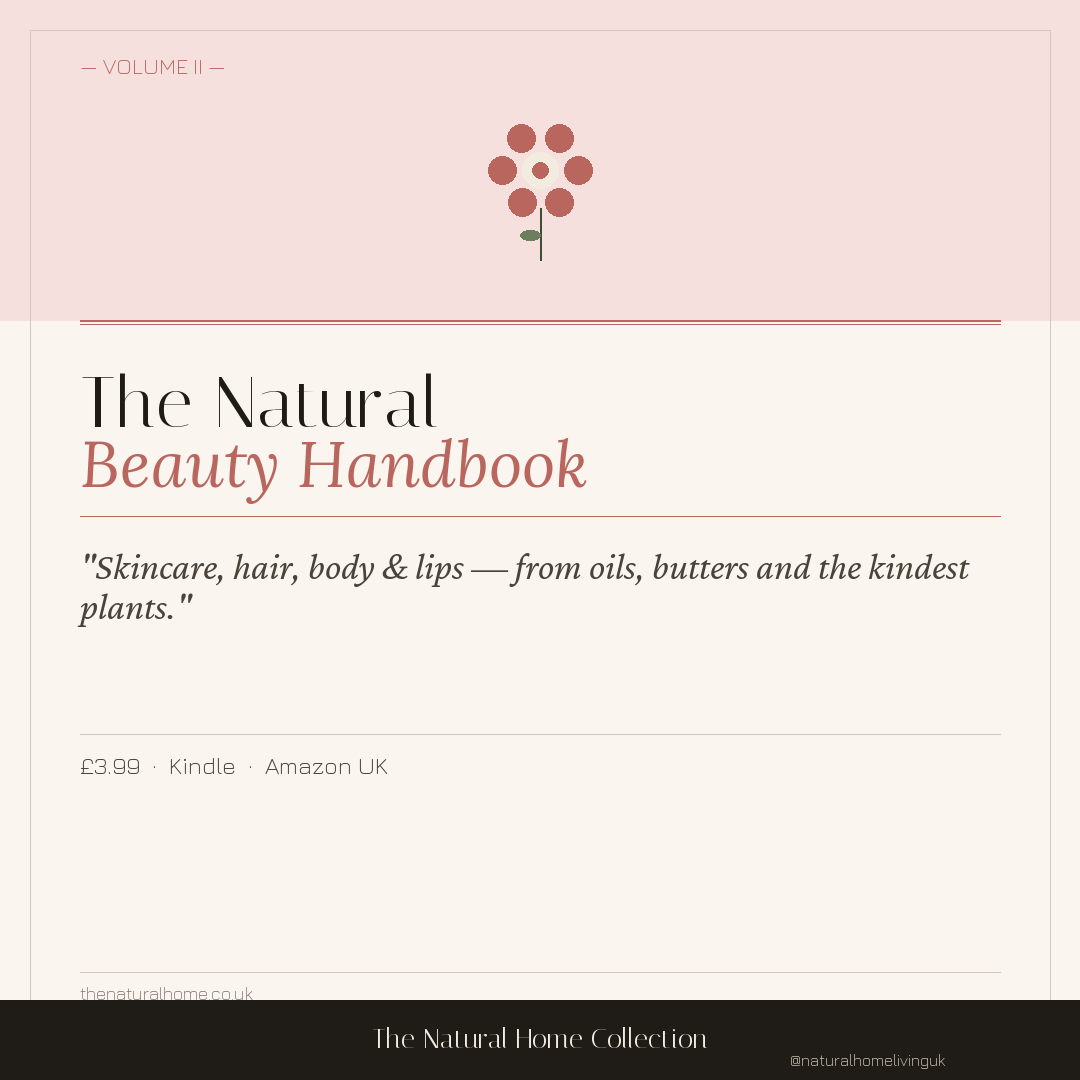
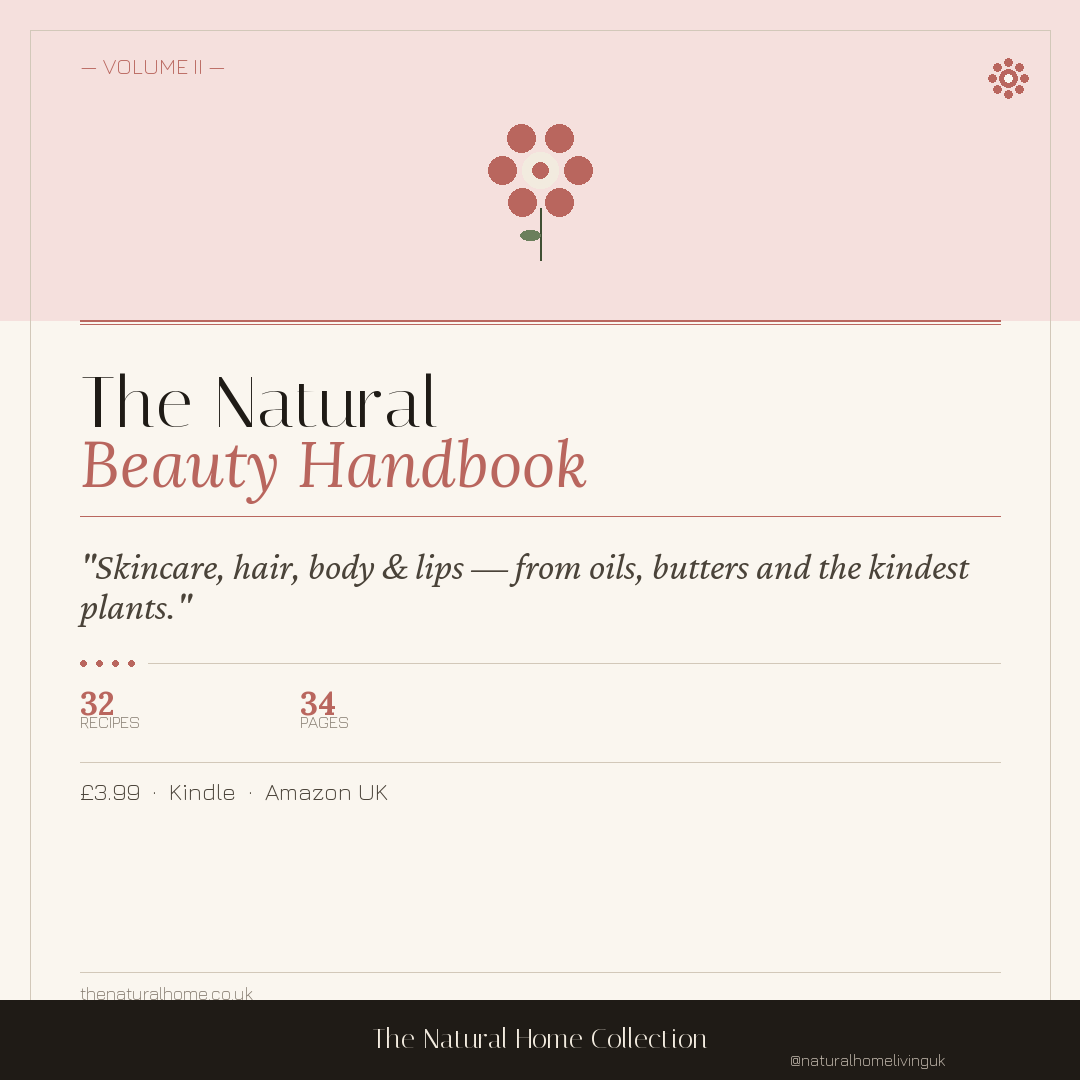
Refine Instagram post designs
- Replace broken text ornament with drawn rosette graphic
- Add recipe/page count stats to book posts
- Fix duplicate label on recipe posts
- Add callout box and stats row to fill empty space

diff --git a/instagram/generate.py b/instagram/generate.py
@@ -183,7 +183,19 @@ def post_01():
 # ══════════════════════════════════════════════════════════════════
 # BOOK POSTS 2–6 — shared template
 # ══════════════════════════════════════════════════════════════════
-def book_post(filename, vol_label, title_lines, hook, accent, bg_tint, illustration_fn):
+def rosette(draw, cx_, cy, r, accent):
+    """Draw a small botanical rosette using circles — replaces ❋."""
+    draw.ellipse([(cx_-r, cy-r), (cx_+r, cy+r)], fill=accent)
+    for angle in range(0, 360, 45):
+        rad = math.radians(angle)
+        px = cx_ + int((r*1.8) * math.cos(rad))
+        py = cy + int((r*1.8) * math.sin(rad))
+        pr = int(r * 0.55)
+        draw.ellipse([(px-pr, py-pr), (px+pr, py+pr)], fill=accent)
+    # White centre dot
+    draw.ellipse([(cx_-r//2, cy-r//2), (cx_+r//2, cy+r//2)], fill=PAPER)
+
+def book_post(filename, vol_label, title_lines, hook, accent, bg_tint, illustration_fn, stats):
     img, draw = new_canvas(PAPER)
 
     # Accent band — top quarter
@@ -191,14 +203,13 @@ def book_post(filename, vol_label, title_lines, hook, accent, bg_tint, illustrat
 
     # Thin double rule below band
     hline(draw, 320, fill=accent, w=2)
-    hline(draw, 324, fill=(accent[0], accent[1], accent[2]), w=1)
+    hline(draw, 324, fill=accent, w=1)
 
     # Volume label
-    fnt_label = font(JURA_L, 22)
-    draw.text((80, 52), vol_label.upper(), font=fnt_label, fill=accent)
+    draw.text((80, 52), vol_label.upper(), font=font(JURA_L, 22), fill=accent)
 
-    # Ornament top-right
-    draw.text((SIZE-100, 44), "❋", font=font(ITALIANA, 42), fill=accent)
+    # Drawn rosette top-right (replaces ❋ text)
+    rosette(draw, SIZE-72, 78, 9, accent)
 
     # Illustration in the band
     illustration_fn(draw, 540, 170, accent)
@@ -219,14 +230,24 @@ def book_post(filename, vol_label, title_lines, hook, accent, bg_tint, illustrat
     hook_fnt = font(CRIMSON_I, 38)
     y = wrap_text(draw, f'"{hook}"', 80, y, SIZE-160, hook_fnt, INK_SOFT, line_gap=6)
 
-    # Decorative ornament cluster — fills lower third
-    orn_y = 700
-    for ox, oy, sz in [(80, orn_y, 22), (114, orn_y+4, 14), (140, orn_y-2, 18)]:
-        draw.text((ox, oy), "❋", font=font(ITALIANA, sz), fill=(accent[0], accent[1], accent[2]))
-    hline(draw, orn_y+34, x0=80, x1=SIZE-80, fill=(210,200,185), w=1)
+    # Stats row — fills the gap after hook
+    stat_y = max(y + 36, 660)
+    # Decorative dot row
+    for dx in range(0, 60, 16):
+        draw.ellipse([(80+dx, stat_y), (86+dx, stat_y+6)], fill=accent)
+    hline(draw, stat_y+3, x0=148, x1=SIZE-80, fill=(210,200,185), w=1)
 
-    # Price + buy line
-    draw.text((80, orn_y+50), "£3.99  ·  Kindle  ·  Amazon UK",
+    stat_y += 22
+    for i, (num, lbl) in enumerate(stats):
+        sx = 80 + i * 220
+        draw.text((sx, stat_y), num, font=font(LORA_B, 32), fill=accent)
+        bb = draw.textbbox((0,0), num, font=font(LORA_B, 32))
+        draw.text((sx, stat_y + bb[3]-bb[1] + 4), lbl.upper(),
+                  font=font(JURA_L, 17), fill=INK_MUTE)
+
+    price_y = stat_y + 80
+    hline(draw, price_y, x0=80, x1=SIZE-80, fill=(210,200,185), w=1)
+    draw.text((80, price_y+14), "£3.99  ·  Kindle  ·  Amazon UK",
               font=font(JURA_L, 24), fill=INK_SOFT)
 
     # Domain
@@ -299,31 +320,36 @@ def post_02():
     book_post("02-green-clean.png", "— Volume I —",
               ["The Green", "Clean Handbook"],
               "Replace every shop-bought spray with 7 ingredients.",
-              SAGE, (229, 235, 221), illus_spray)
+              SAGE, (229, 235, 221), illus_spray,
+              [("38", "Recipes"), ("34", "Pages")])
 
 def post_03():
     book_post("03-natural-beauty.png", "— Volume II —",
               ["The Natural", "Beauty Handbook"],
               "Skincare, hair, body & lips — from oils, butters and the kindest plants.",
-              ROSE, (245, 224, 221), illus_flower)
+              ROSE, (245, 224, 221), illus_flower,
+              [("32", "Recipes"), ("34", "Pages")])
 
 def post_04():
     book_post("04-zero-waste.png", "— Volume III —",
               ["The Zero-Waste", "Kitchen"],
               "Save £800 a year. Turn yesterday's peelings into tonight's stock.",
-              TEAL, (216, 232, 226), illus_jar)
+              TEAL, (216, 232, 226), illus_jar,
+              [("30", "Recipes"), ("32", "Pages")])
 
 def post_05():
     book_post("05-herbal-remedies.png", "— Volume IV —",
               ["Natural Herbal", "Remedies at Home"],
               "Teas, tinctures, syrups & salves. Built from plants on a windowsill.",
-              GOLD, (240, 229, 204), illus_bottle)
+              GOLD, (240, 229, 204), illus_bottle,
+              [("35", "Recipes"), ("40", "Pages")])
 
 def post_06():
     book_post("06-pet-care.png", "— Volume V —",
               ["Natural Pet", "Care at Home"],
               "Chemical-free grooming and gentle remedies for dogs and cats.",
-              BROWN, (235, 223, 208), illus_paw)
+              BROWN, (235, 223, 208), illus_paw,
+              [("30", "Recipes"), ("33", "Pages")])
 
 # ══════════════════════════════════════════════════════════════════
 # RECIPE POSTS 7–11 — shared template
